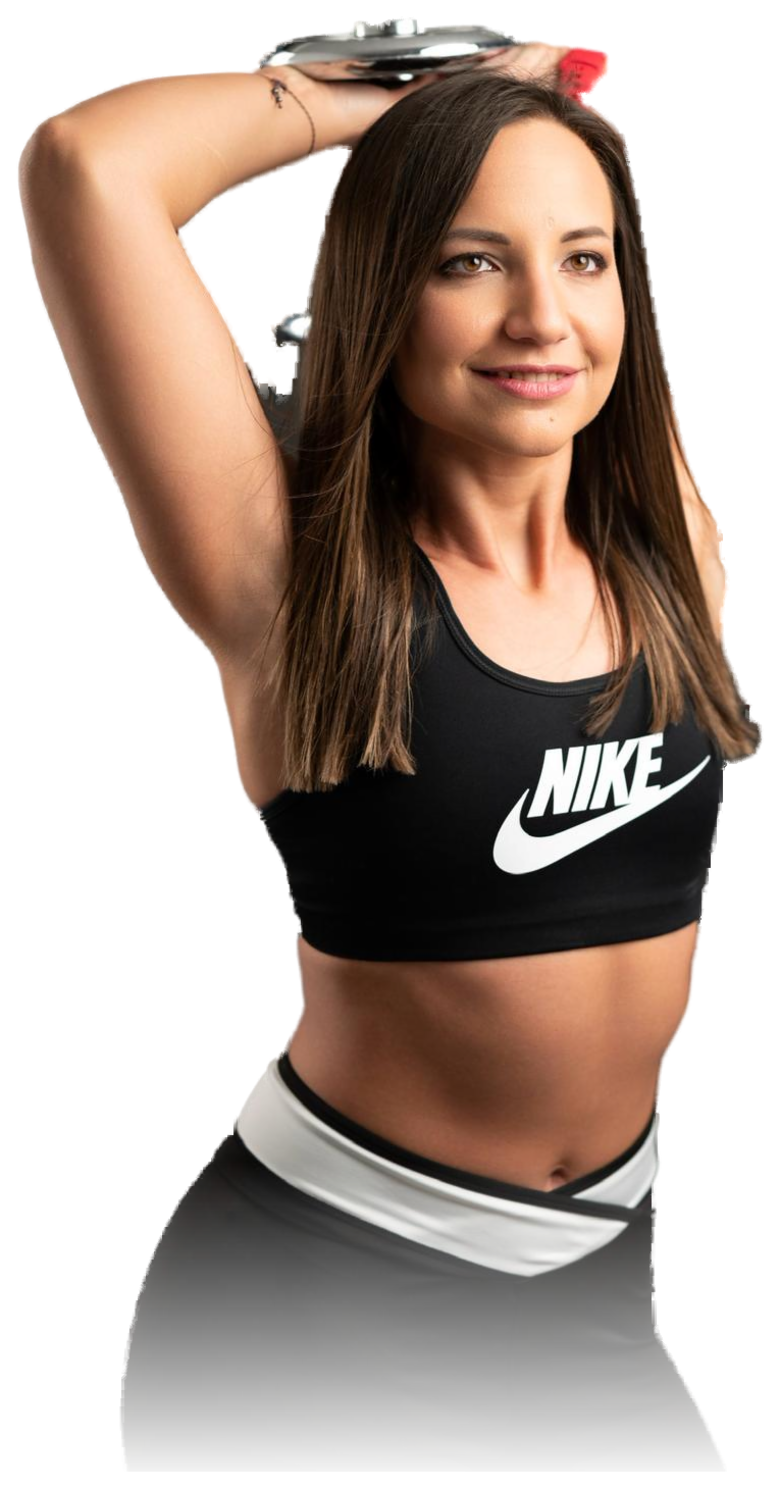
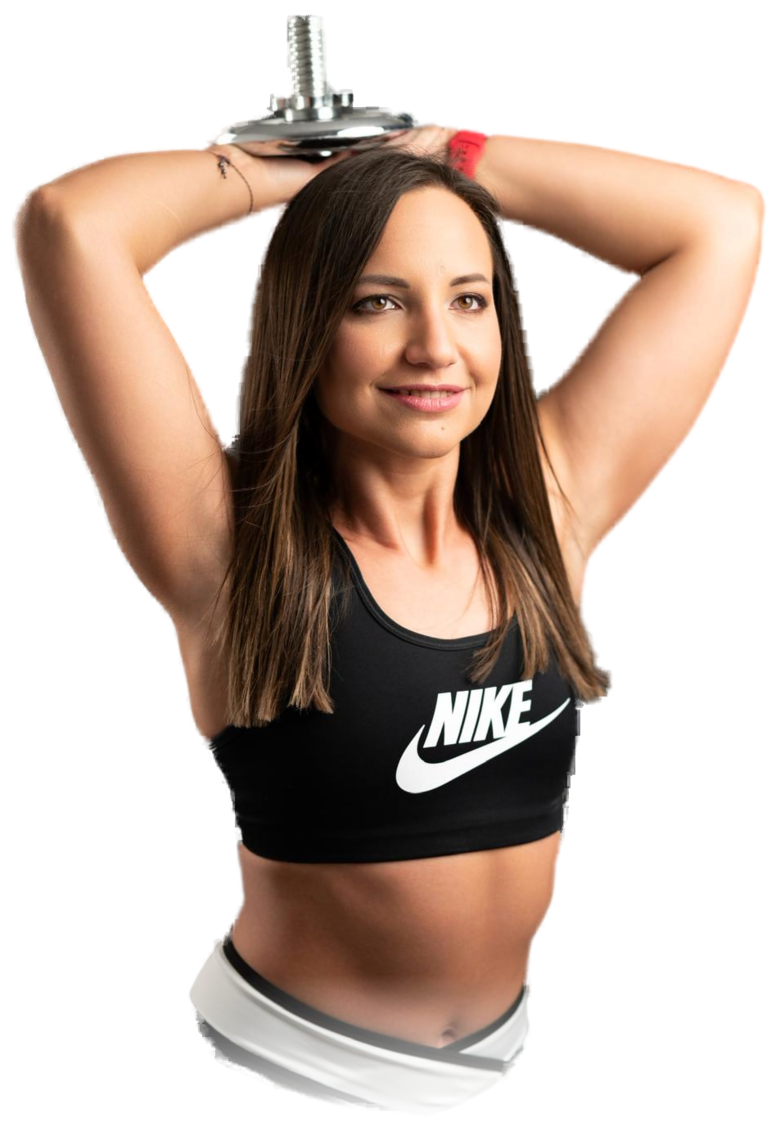
Hero kép visszaállítás + statikus FITNESS + mobil olvashatóság fix
- Hero kép: visszaállítva a korábbi jó (u2net) kivágás, csak enyhe
  alsó fade hozzáadva (a túlfeldolgozott isnet+fade verzió eldobva)
- FITNESS háttérfelirat: animáció (lebegés/pulzálás) kikapcsolva,
  fix halvány piros, enyhe kontúr — nincs mozgás
- Mobil hero: tiszta egymás alatti elrendezés, kép a szöveg alatt,
  a nagy háttérszó mobilon elrejtve (ne csússzon szét)
- "Tökéletes edző" szekció: a piros dekor vonalak (multilines svg)
  és a FITNESS/HEALTH címkék mobilon elrejtve, így a szöveg olvasható

diff --git a/public/assets/css/evitality.css b/public/assets/css/evitality.css
@@ -1,60 +1,74 @@
 /* eVitality custom overrides — loaded last, after style.css + skin-1.css */
 
-/* ---- Hero background FITNESS watermark: reddish + tasteful, visible ---- */
+/* ---- Hero FITNESS watermark: STATIC (no pulse/float), subtle red ---- */
+.main-bnr-one .banner-inner .data-text,
+.main-bnr-one .banner-inner .data-text span {
+  animation: none !important;
+}
 .main-bnr-one .banner-inner .data-text {
-  color: rgba(255, 45, 45, 0.14) !important;
+  color: rgba(255, 45, 45, 0.10) !important;
   opacity: 1 !important;
-  -webkit-text-stroke: 1px rgba(255, 45, 45, 0.38);
-  filter: drop-shadow(0 16px 34px rgba(255, 45, 45, 0.22)) !important;
+  -webkit-text-stroke: 1px rgba(255, 45, 45, 0.28);
+  filter: none !important;
 }
 
-/* ---- Hero readability + mobile: image must not cover the text ---- */
-.main-bnr-one .banner-content .title {
-  text-shadow: 0 2px 18px rgba(255, 255, 255, 0.55);
-}
-
+/* ---- Mobile hero: clean stacked layout, image below text ---- */
 @media only screen and (max-width: 991px) {
   .main-bnr-one .banner-inner {
     min-height: auto !important;
-    padding-top: 120px !important;
-    padding-bottom: 40px !important;
+    padding-top: 110px !important;
+    padding-bottom: 36px !important;
   }
   .main-bnr-one .banner-row {
     flex-direction: column !important;
   }
-  .main-bnr-one .banner-media,
-  .main-bnr-one .media1 {
-    position: relative !important;
-    max-width: 78% !important;
-    margin: 28px auto 0 !important;
-    left: auto !important;
-    top: auto !important;
-  }
   .main-bnr-one .banner-content {
     position: relative;
     z-index: 3;
-    text-align: center;
-    background: rgba(255, 255, 255, 0.78);
-    backdrop-filter: blur(4px);
-    border-radius: 14px;
-    padding: 26px 20px;
   }
-  .main-bnr-one .banner-content .d-flex {
-    justify-content: center;
+  .main-bnr-one .banner-media,
+  .main-bnr-one .media1 {
+    position: relative !important;
+    max-width: 72% !important;
+    margin: 22px auto 0 !important;
+    left: auto !important;
+    right: auto !important;
+    top: auto !important;
   }
+  /* the big background word causes overlap on phones — hide it there */
   .main-bnr-one .banner-inner .data-text {
-    font-size: 110px !important;
-    bottom: auto !important;
-    top: 78px !important;
+    display: none !important;
   }
 }
 
-/* ---- General mobile text legibility on image-backed sections ---- */
-@media only screen and (max-width: 767px) {
-  .content-inner,
-  .content-inner-1 {
-    background-color: #ffffff;
+/* ---- "Tökéletes edző" section: kill decorative red lines on mobile so
+        the heading + paragraph are readable ---- */
+@media only screen and (max-width: 991px) {
+  .about-bx1 .dz-media svg {
+    display: none !important;
   }
+  .about-bx1 .dz-media ul {
+    display: none !important;
+  }
+  .about-bx1 .dz-media {
+    max-width: 320px !important;
+    margin: 0 auto 24px !important;
+  }
+  .about-bx1 .dz-media img {
+    width: 100% !important;
+  }
+  .about-bx1 .about-content {
+    position: relative;
+    z-index: 2;
+  }
+  .about-bx1 .section-head .title,
+  .about-bx1 .about-content p {
+    color: #1c1c1c !important;
+  }
+}
+
+/* ---- Mobile contrast on image-backed section (Rólam) ---- */
+@media only screen and (max-width: 767px) {
   .about-wrapper2 {
     position: relative;
   }
@@ -62,21 +76,12 @@
     content: "";
     position: absolute;
     inset: 0;
-    background: rgba(255, 255, 255, 0.82);
+    background: rgba(255, 255, 255, 0.85);
     z-index: 0;
   }
   .about-wrapper2 .container {
     position: relative;
     z-index: 1;
-  }
-  .section-head .sub-title {
-    color: var(--primary) !important;
-  }
-  .section-head .title,
-  .section-head p,
-  .about-content p,
-  .icon-content .dz-title {
-    color: #1c1c1c !important;
   }
 }
 
